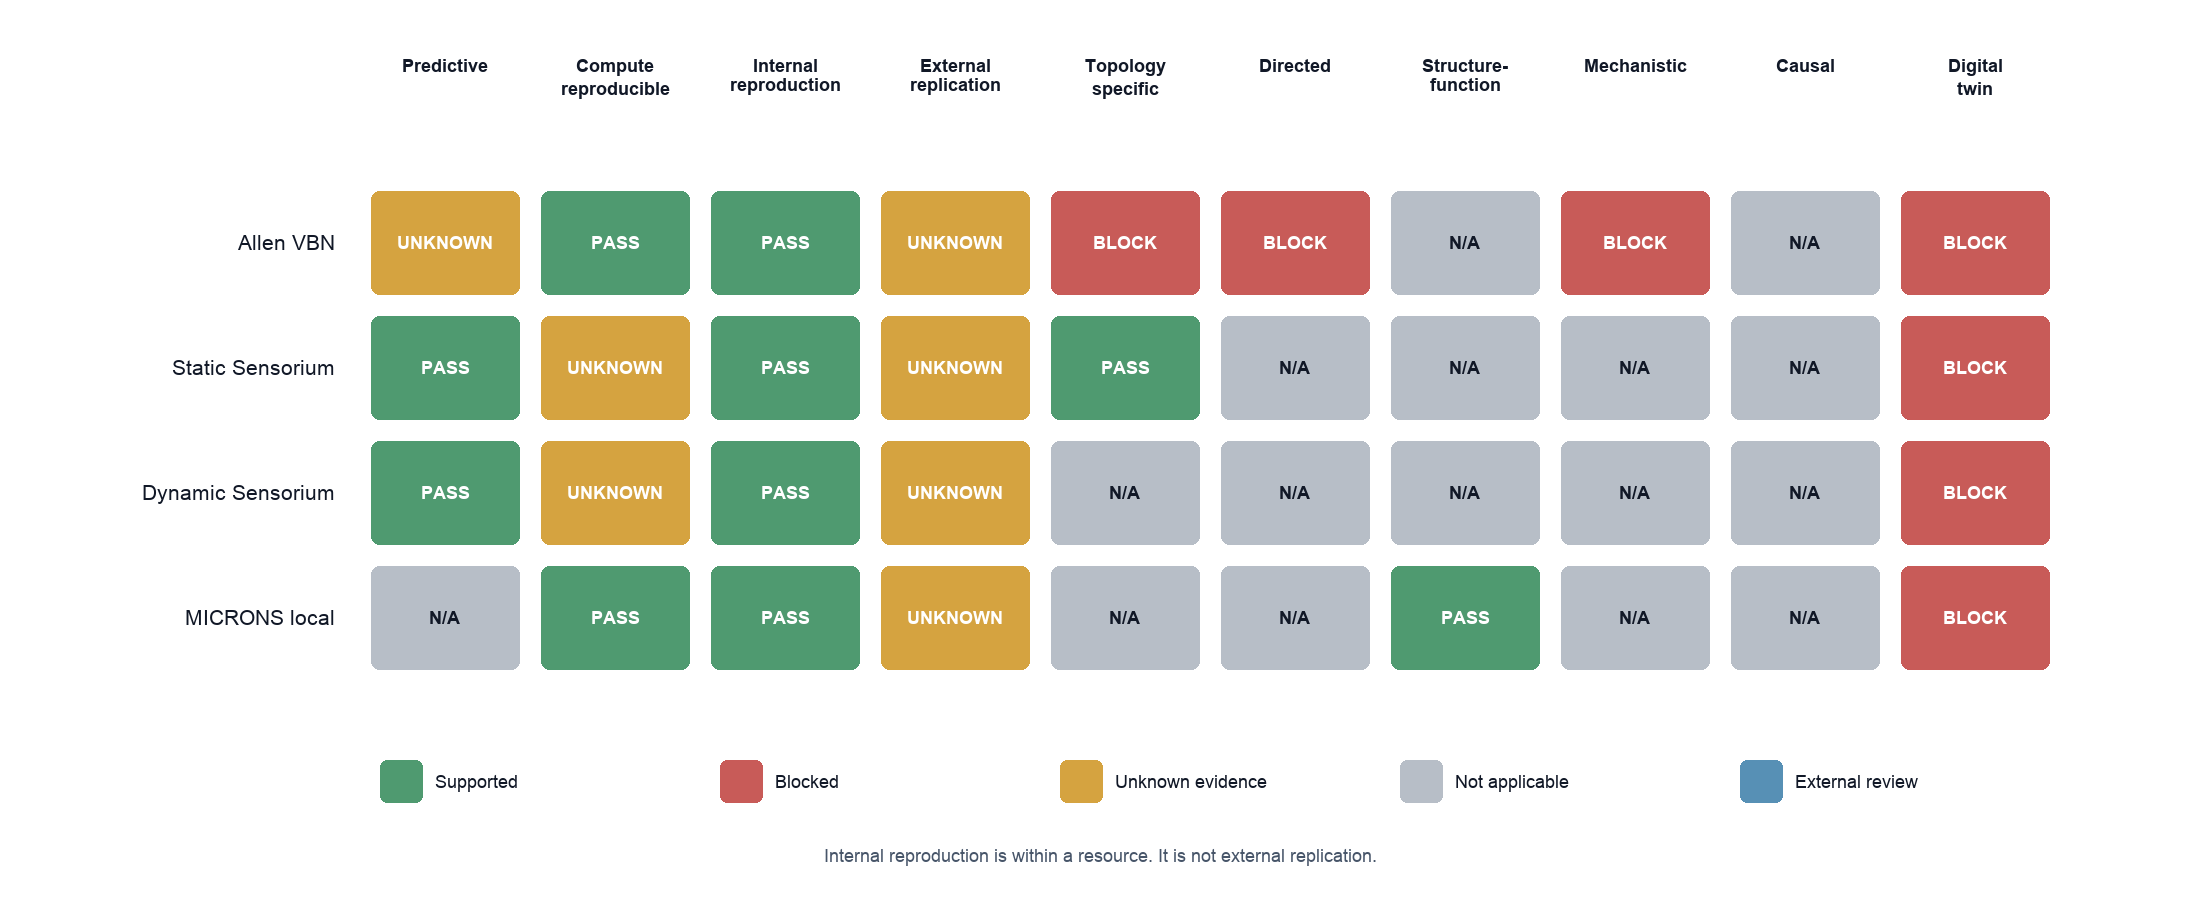
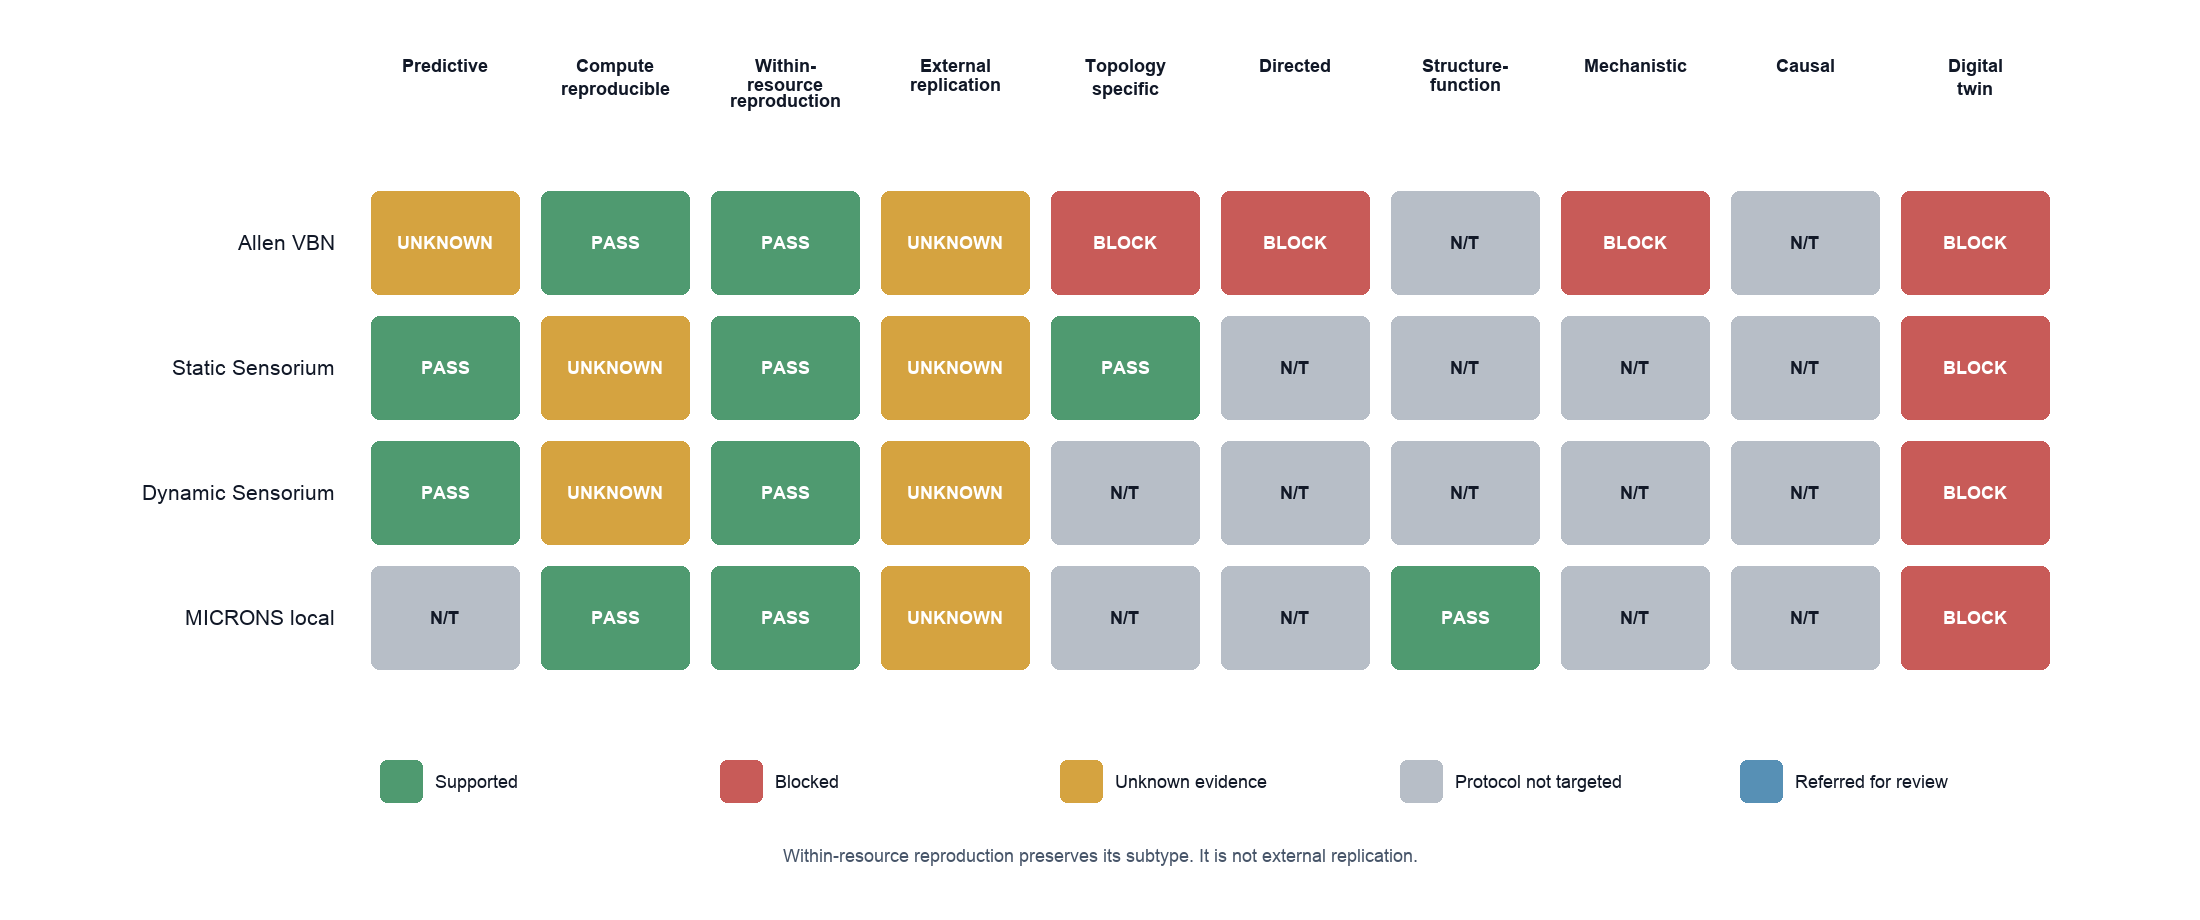
Regenerate manuscript figures with explicit policy semantics

diff --git a/scripts/generate_paper_figures.py b/scripts/generate_paper_figures.py
@@ -315,13 +315,19 @@ def build_oracle_benchmark() -> Image.Image:
             draw.text((label_x, y), f"{value:.3f}", font=SMALL_BOLD, fill=INK, anchor="lm")
 
     draw.line((900, 35, 900, 720), fill="#94a3b8", width=3)
-    draw.text((1350, 55), "B. Policy comparisons by generated case", font=HEAD, fill=INK, anchor="mm")
+    draw.text(
+        (1350, 55),
+        "B. Paired decisions and case-level tests",
+        font=HEAD,
+        fill=INK,
+        anchor="mm",
+    )
     paired = payload["paired_decision_counts"]
     paired_rows = [
-        ("Both correct", paired["both_correct"], "#6b9f7c"),
-        ("Knowledge policy only", paired["contract_only_correct"], "#447ba6"),
+        ("Both policies correct", paired["both_correct"], "#6b9f7c"),
+        ("Knowledge policy only correct", paired["contract_only_correct"], "#447ba6"),
         ("Shortcut only correct", paired["shortcut_only_correct"], "#d59b45"),
-        ("Both wrong", paired["both_wrong"], "#b96a5e"),
+        ("Both policies wrong", paired["both_wrong"], "#b96a5e"),
     ]
     max_count = max(value for _label, value, _color in paired_rows)
     for index, (label, value, color) in enumerate(paired_rows):

diff --git a/figures/claimbench_oracle_benchmark.tex b/figures/claimbench_oracle_benchmark.tex
@@ -4,8 +4,8 @@
 \caption{Oracle structural-equation benchmark. Panel A reports \acs{fpr} and
 \acs{fnr} with 95\% stratified case-cluster bootstrap intervals for the
 knowledge policy, an equal-weight compensatory score, and a prediction shortcut.
-Panel B compares case-level errors. Reference labels come from the generating
-graph and intervention, while evidence states come from finite-sample
-diagnostics.}
+Panel B reports descriptive paired-decision counts and exact case-level sign
+tests. Reference labels come from the generating graph and intervention, while
+evidence states come from finite-sample diagnostics.}
 \label{fig:oracle-benchmark}
 \end{figure}

diff --git a/paper/figures/claimbench_oracle_benchmark.tex b/paper/figures/claimbench_oracle_benchmark.tex
@@ -4,8 +4,8 @@
 \caption{Oracle structural-equation benchmark. Panel A reports \acs{fpr} and
 \acs{fnr} with 95\% stratified case-cluster bootstrap intervals for the
 knowledge policy, an equal-weight compensatory score, and a prediction shortcut.
-Panel B compares case-level errors. Reference labels come from the generating
-graph and intervention, while evidence states come from finite-sample
-diagnostics.}
+Panel B reports descriptive paired-decision counts and exact case-level sign
+tests. Reference labels come from the generating graph and intervention, while
+evidence states come from finite-sample diagnostics.}
 \label{fig:oracle-benchmark}
 \end{figure}
